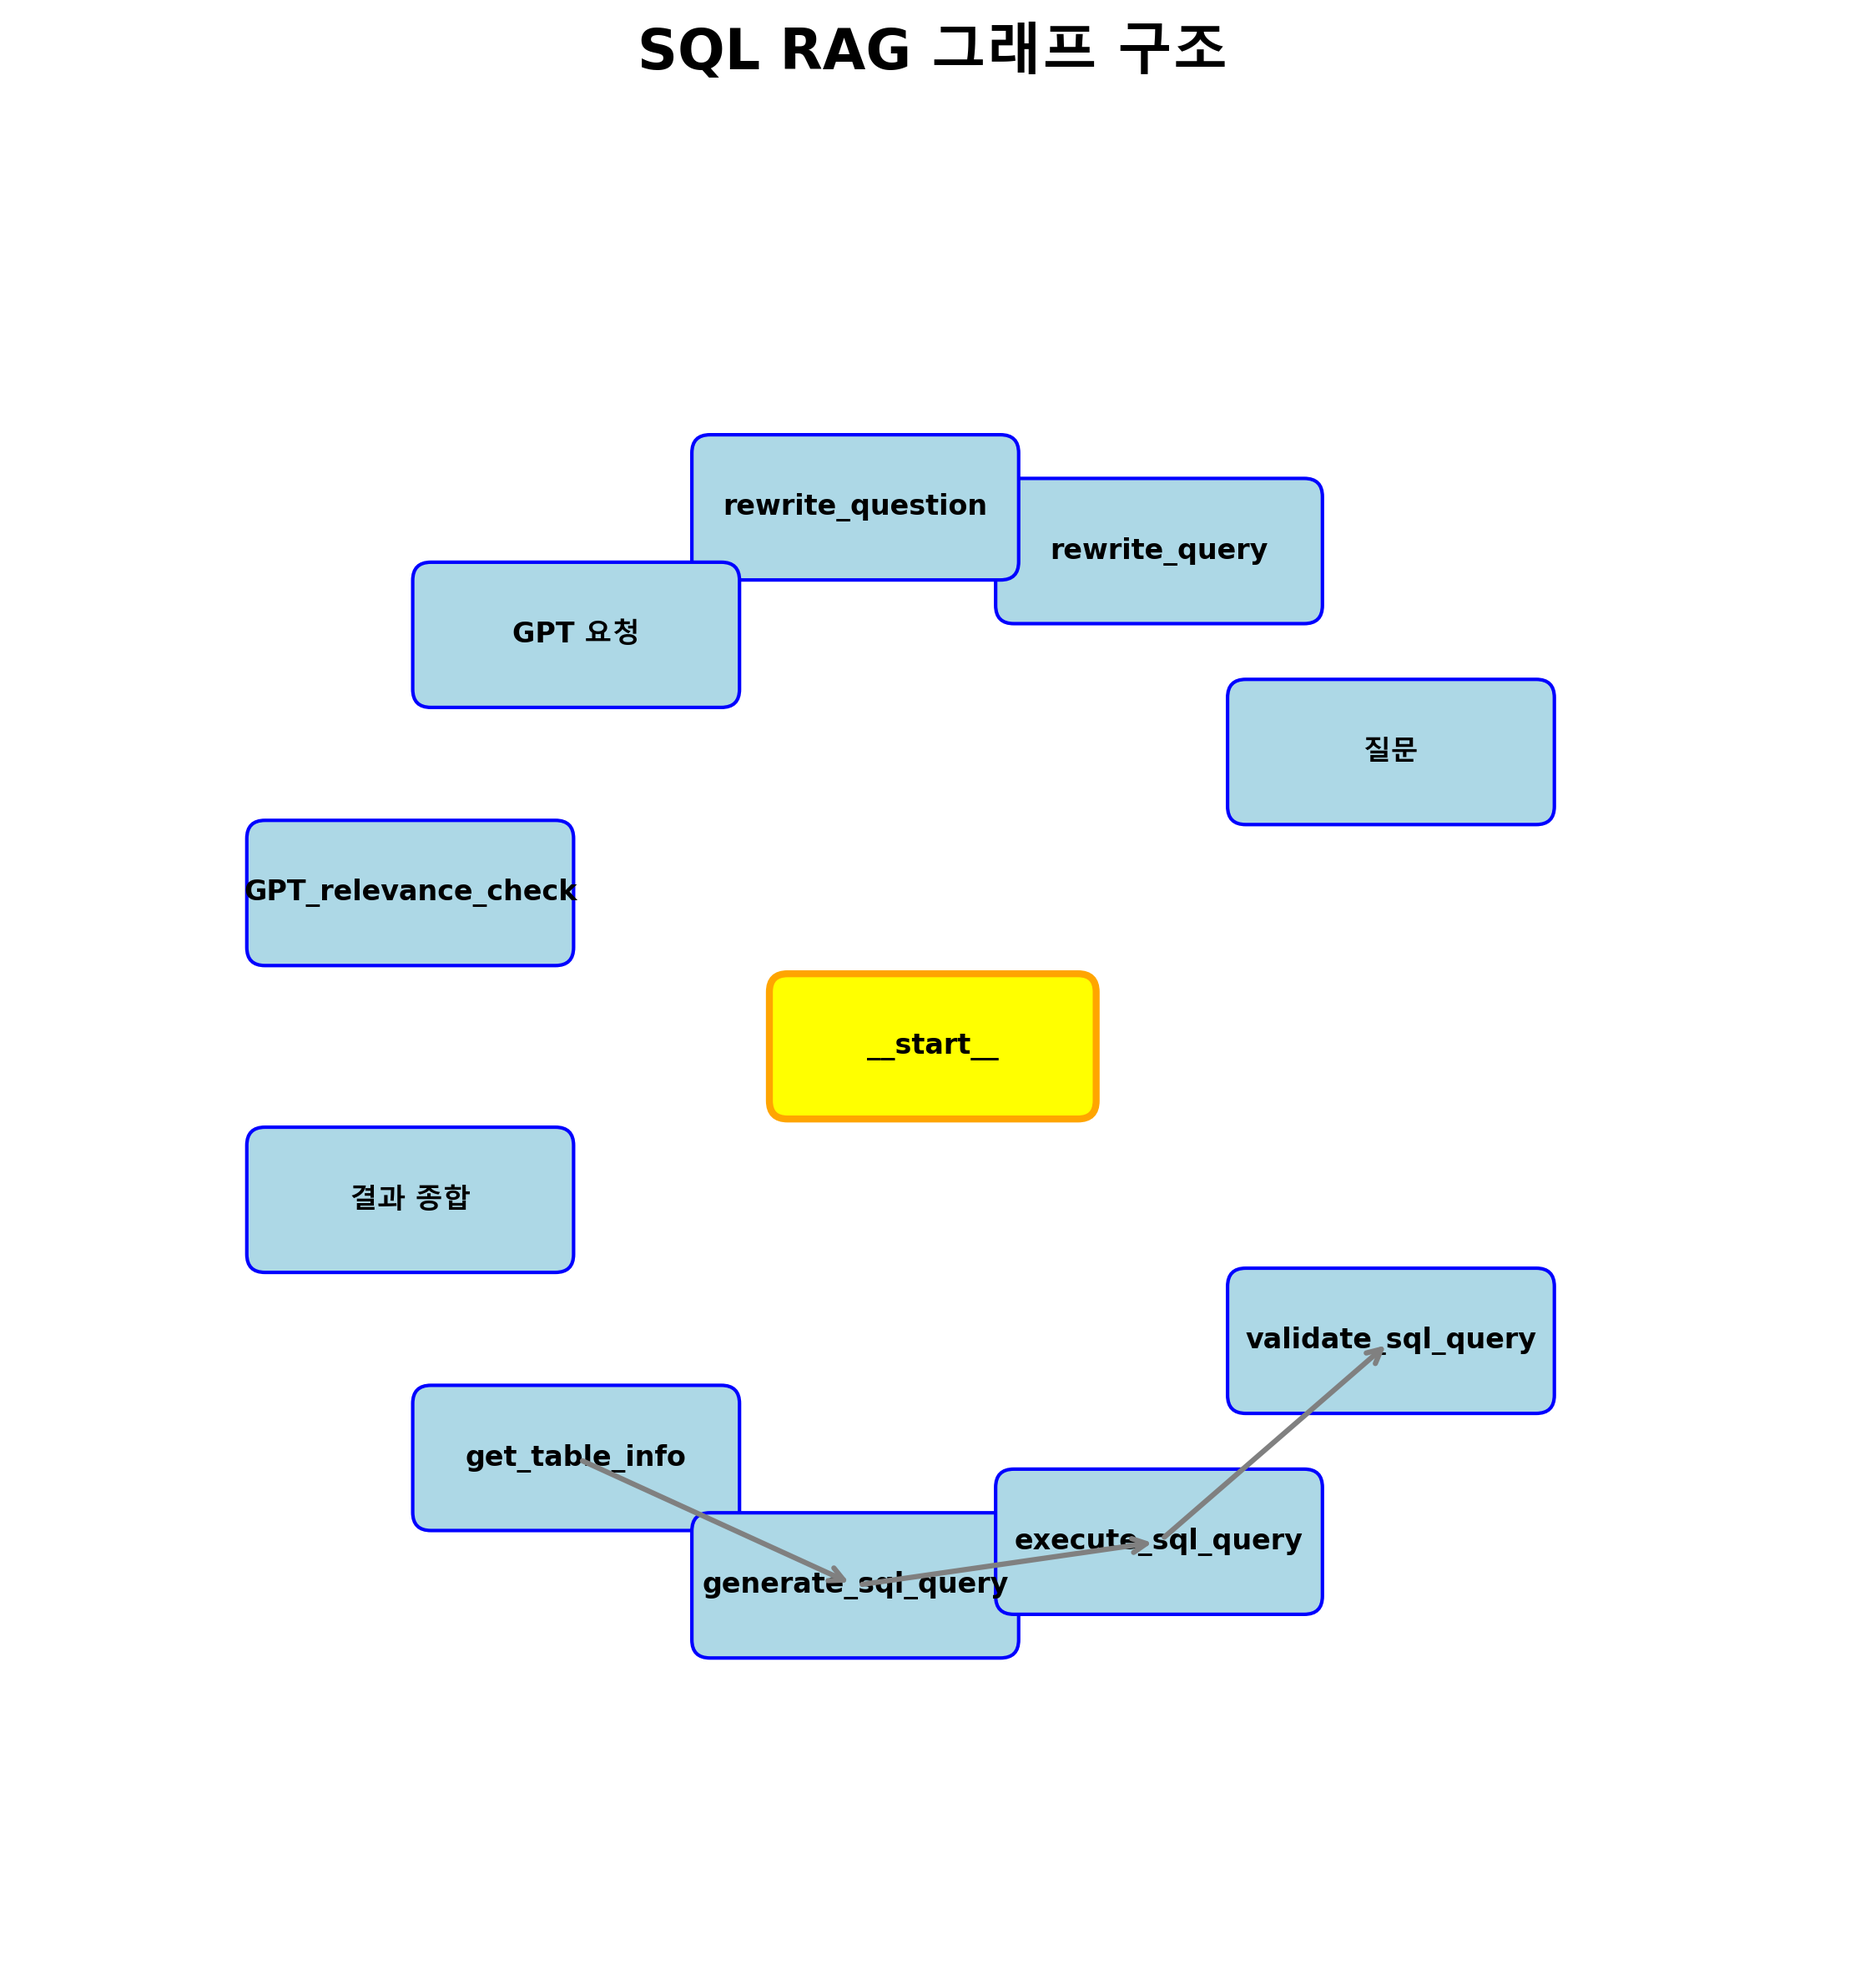
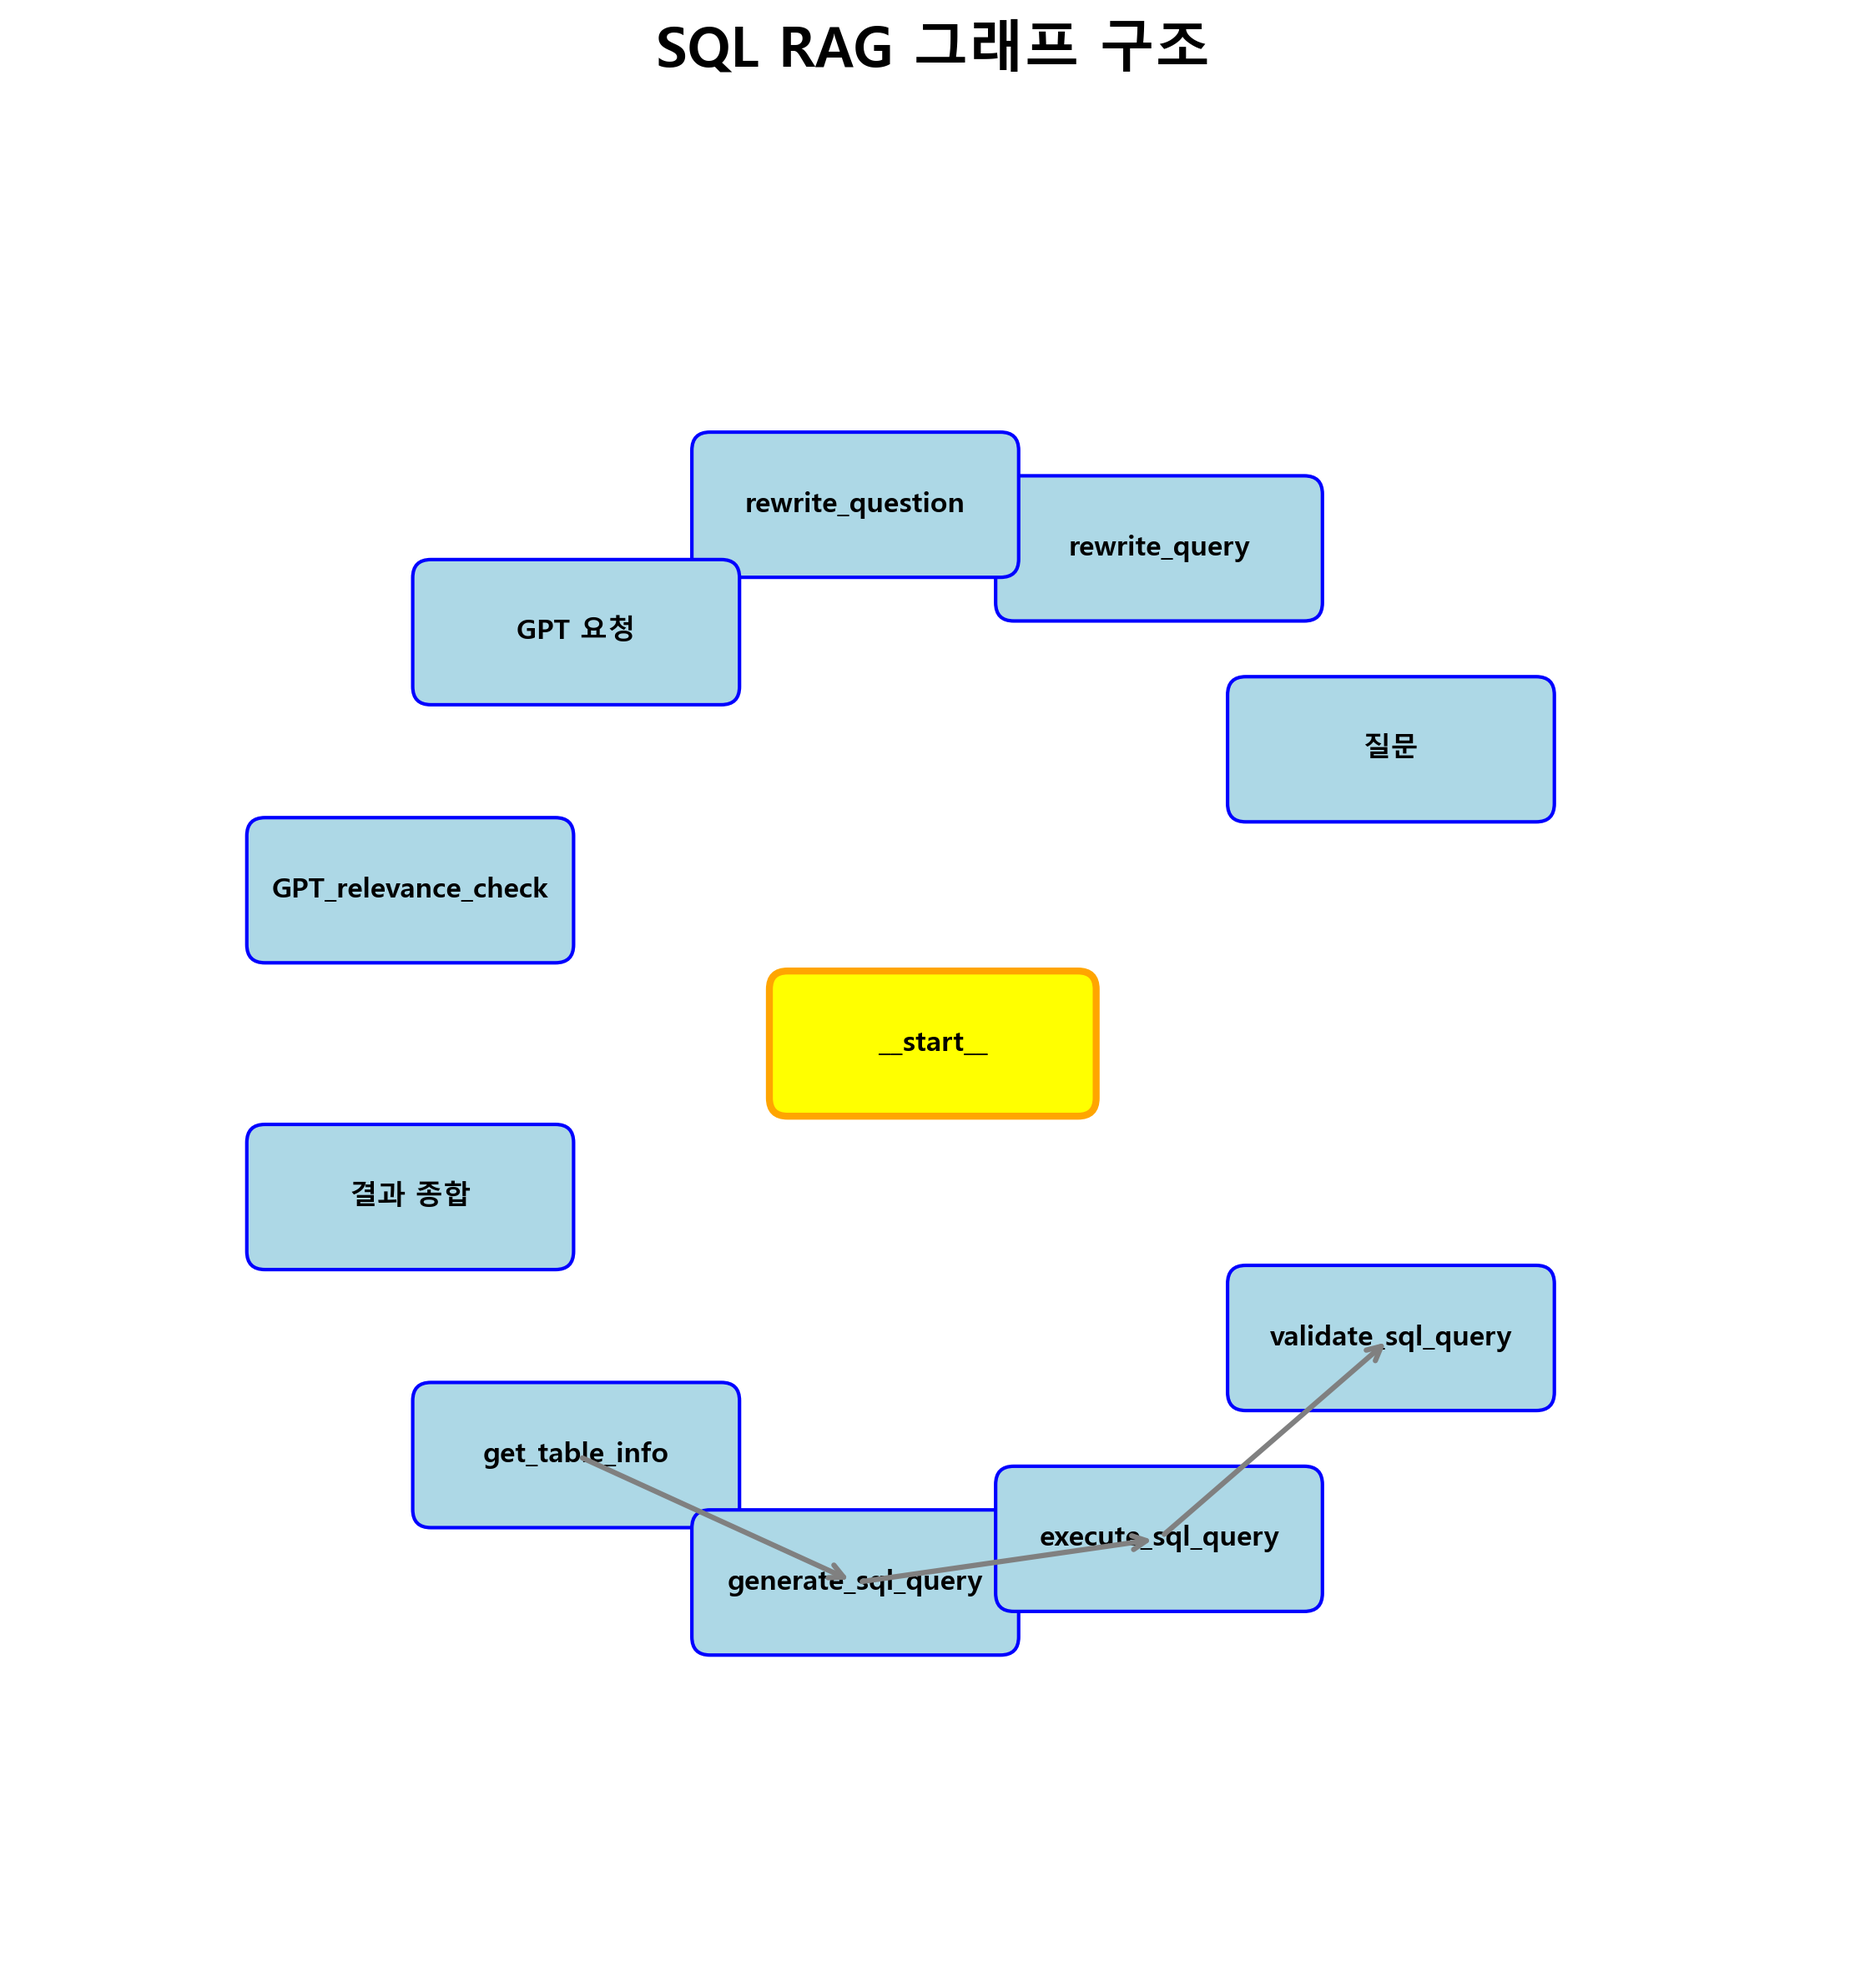
font

diff --git a/src/ai_bootcamp/app/demo/langraph/17-LangGraph/02-Structures/01-langgraph-building-graph.py b/src/ai_bootcamp/app/demo/langraph/17-LangGraph/02-Structures/01-langgraph-building-graph.py
@@ -597,13 +597,39 @@ def create_graph_png(app, graph_name="Graph", filename=None):
         entry_point = app.entry_point if hasattr(app, "entry_point") else None
 
         # matplotlib을 사용한 그래프 시각화
-        # 한글 폰트 설정
-        plt.rcParams["font.family"] = [
-            "DejaVu Sans",
-            "Arial Unicode MS",
-            "Malgun Gothic",
-            "SimHei",
+        # 한글 폰트 설정 - 시스템에서 사용 가능한 폰트만 사용
+        import matplotlib.font_manager as fm
+
+        # 시스템에서 사용 가능한 폰트 확인
+        available_fonts = [f.name for f in fm.fontManager.ttflist]
+
+        # 한글 폰트 우선순위 설정
+        korean_fonts = [
+            "Malgun Gothic",  # Windows 기본 한글 폰트
+            "NanumGothic",  # 나눔고딕
+            "NanumBarunGothic",  # 나눔바른고딕
+            "Dotum",  # 돋움
+            "Gulim",  # 굴림
+            "Batang",  # 바탕
+            "SimHei",  # 중국어 폰트 (한글 지원)
+            "Microsoft YaHei",  # 마이크로소프트 야헤이
         ]
+
+        # 사용 가능한 한글 폰트 찾기
+        selected_font = None
+        for font in korean_fonts:
+            if font in available_fonts:
+                selected_font = font
+                break
+
+        if selected_font:
+            plt.rcParams["font.family"] = [selected_font, "DejaVu Sans", "Arial"]
+            print(f"한글 폰트 '{selected_font}'를 사용합니다.")
+        else:
+            # 한글 폰트가 없으면 기본 폰트 사용
+            plt.rcParams["font.family"] = ["DejaVu Sans", "Arial"]
+            print("한글 폰트를 찾을 수 없어 기본 폰트를 사용합니다.")
+
         plt.rcParams["axes.unicode_minus"] = False
 
         fig, ax = plt.subplots(figsize=(12, 8))
